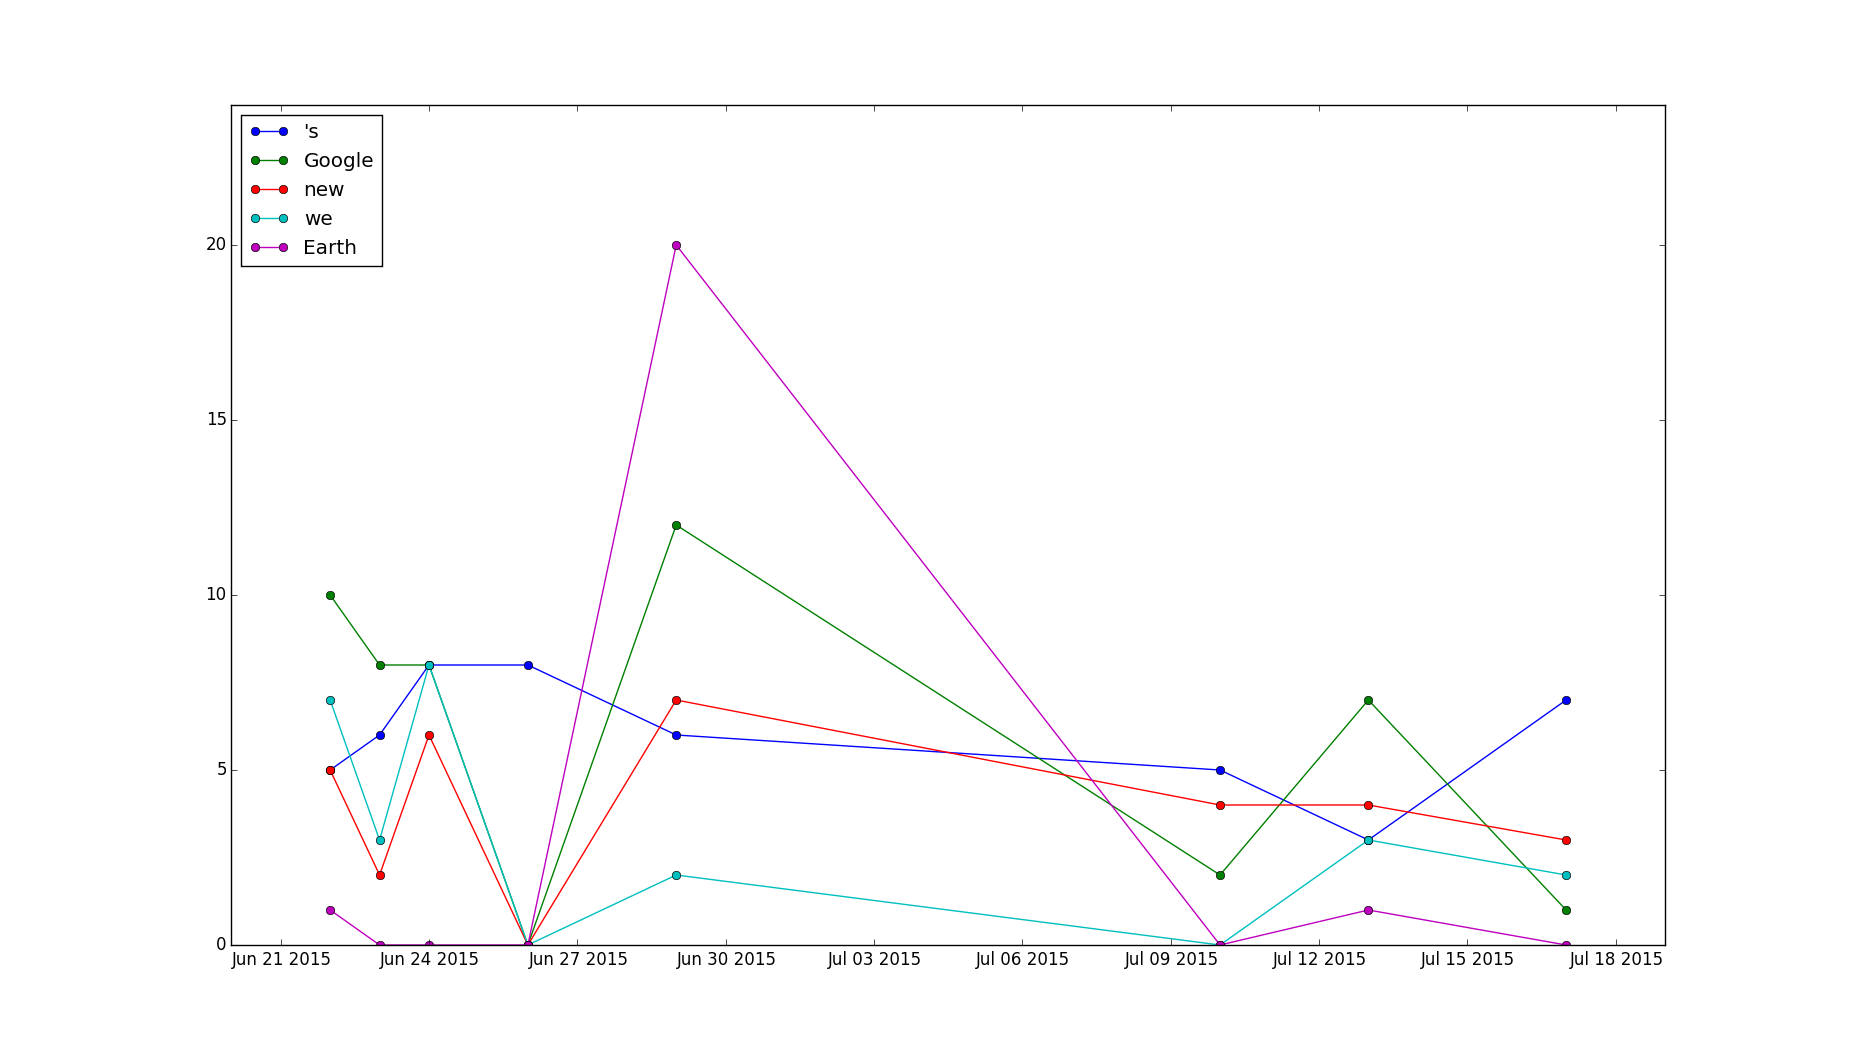
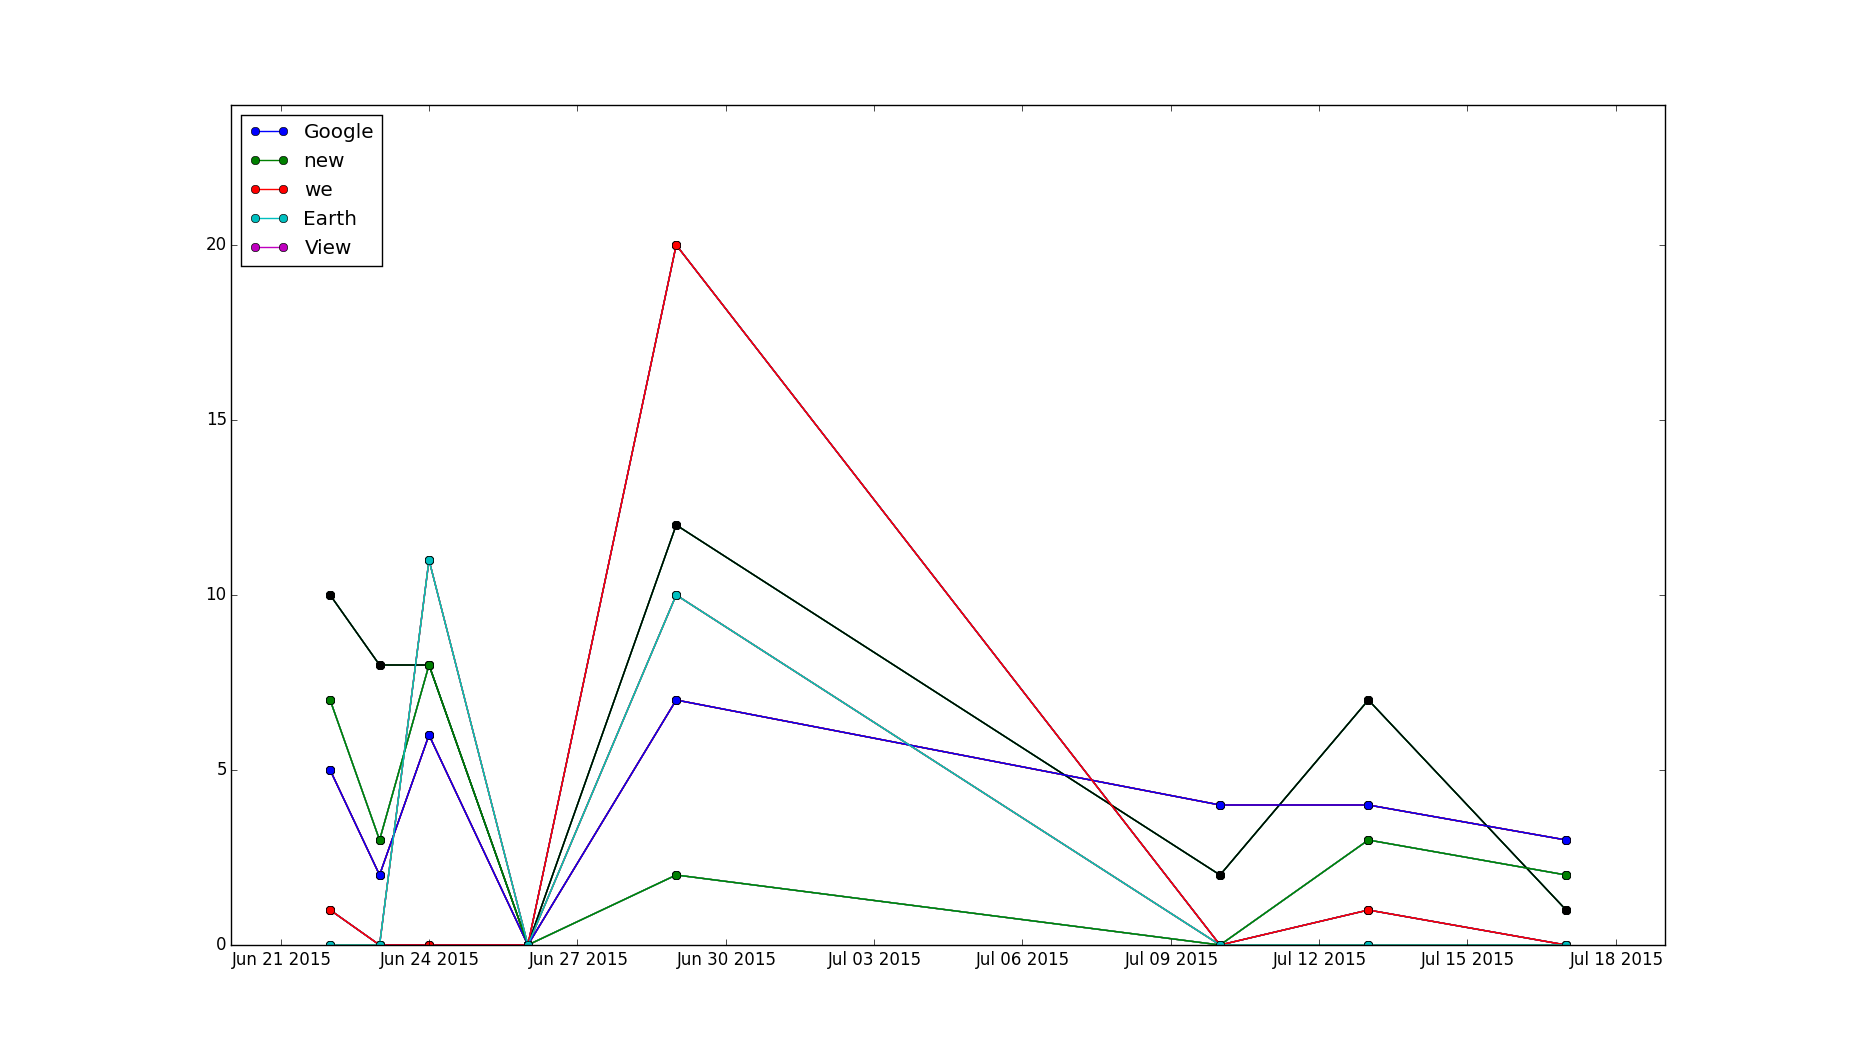
primitively fixed the path of image

diff --git a/files/templates/blog_search_result.html b/files/templates/blog_search_result.html
@@ -5,6 +5,9 @@
 <body>
     You searched for blog {{ blog_name }}
 
+    <h2>Word Frequency v.s. Time</h2>
+    <img src="../media/wf_vs_time.png" alt="Mountain View" style="width:304px;height:228px;">
+
     {% for post in posts %}
         <p>{{ post.content }}</p>
     {% endfor %}

diff --git a/files/templates/search_page.html b/files/templates/search_page.html
@@ -1,0 +1,11 @@
+<html>
+<head>
+    <title>Search</title>
+</head>
+<body>
+    <form action="/search_blog/" method="get">
+        <input type="text" name="link" height="100" size="70">
+        <input type="submit" value="Get!">
+    </form>
+</body>
+</html>

diff --git a/files/Blogger_Retriever/get.py b/files/Blogger_Retriever/get.py
@@ -4,7 +4,9 @@ import ast
 import nltk
 from bs4 import BeautifulSoup
 import re
+import ipdb
 
+MAX_POSTS = 50
 api_key = 'AIzaSyAsO-ID5sIxbtvc59ir5v2xbVxZTA02VDo'
 
 
@@ -17,8 +19,9 @@ def parse_post(post):
     post['pub_day'] = int(day)
 
     # use beautiful soup to parse the content
+    #ipdb.set_trace()
     soup = BeautifulSoup(post['content'])
-    post['content'] = soup.get_text()   # replace \u2018 with '
+    post['content'] = soup.get_text()
 
     # get author_id and the name
     post['author_id'] = post['author']['id']
@@ -41,8 +44,8 @@ def get_blog_by_link(blog_url):
 
 def get_blog_by_ID(blog_id):
 
-    get_all_posts_url = 'https://www.googleapis.com/blogger/v3/blogs/' + str(blog_id) + '/posts?key=' + api_key
-    blog_info = get(get_all_posts_url)
+    get_posts_url = 'https://www.googleapis.com/blogger/v3/blogs/' + str(blog_id) + '/posts?key=' + api_key
+    blog_info = get(get_posts_url)
     all_posts = []
 
     for post in blog_info['items']:

diff --git a/files/search_blogs/search_views.py b/files/search_blogs/search_views.py
@@ -1,7 +1,8 @@
-from django.shortcuts import render
+from django.shortcuts import render, render_to_response
 #from django.template.loader import get_template
 from django.http import HttpResponse
-from django.template import Template, Context
+from django.template import Template, Context, RequestContext
+
 import os
 # Create your views here.
 
@@ -18,6 +19,9 @@ def search_blog_by_link(request):
 
     visualize.words_vs_time(posts)
 
-    return HttpResponse(request, 'done')
+    ctx = RequestContext({'posts': posts, 'blog_name': blog['name'], 'MEDIA_URL': 'asd'})
+    #return render(request, 'blog_search_result.html', ctx)
+    return render_to_response('blog_search_result.html', {'posts': posts, 'blog_name': blog['name']},
+                              context_instance=RequestContext(request))
 
 

diff --git a/files/TextProcess/preprocess.py b/files/TextProcess/preprocess.py
@@ -2,6 +2,7 @@ from nltk.corpus import stopwords
 from collections import Counter
 import re
 from PorterStemmer import PorterStemmer
+import ipdb
 
 def extract(l, pat, str, sub):
     l.extend(re.findall(pat,str))
@@ -25,9 +26,10 @@ def tokenizeText(str):
     pat = '(?:\w+\.)+'
     str = extract(l, pat, str, '')
 
+    #ipdb.set_trace()
     #tokenization of 's, 're, 'm
     pat = '\'s'
-    str = extract(l, pat, str, '')
+    str = re.sub(pat, '', str)
 
     pat = '\'re'
     str = re.sub(pat, ' are', str)
@@ -71,6 +73,7 @@ def word_freq(s):
 
     return Counter(s.split())
 '''
+
 def rm_space(s):
     return ' '.join(s.split())
 

diff --git a/files/TextVisualize/visualize.py b/files/TextVisualize/visualize.py
@@ -37,14 +37,15 @@ def words_vs_time(posts, freq_words=[]):
 
     if not freq_words_provided:
         sorted_list = sorted(global_word_count.items(), key=operator.itemgetter(1), reverse=True)
-        sorted_list = sorted_list[:5]
-        freq_words = [x[0] for x in sorted_list]
+
+        freq_words = [x[0] for x in sorted_list[:5]]
 
     dates = sorted(post_dict.keys())
-
+    # ipdb.set_trace()
     # maintain max_occurence for setting y axis of the plot
     max_occurence = 0
 
+    print freq_words
     for word in freq_words:
 
         counts = []

diff --git a/files/mysite/urls.py b/files/mysite/urls.py
@@ -21,10 +21,14 @@ from views import hello, current_datetime, hours_ahead
 #print sys.path
 from search_blogs import search_views
 import views
+import settings
 
 urlpatterns = patterns('',
     #url(r'^admin/', include(admin.site.urls)),
     #url(r'^hello/$', hello),
     url(r'^$', views.home),
-    url(r'^search_blog', search_views.search_blog_by_link)
+    url(r'^search_blog', search_views.search_blog_by_link),
+
+    (r'^media/(?P<path>.*)$', 'django.views.static.serve',
+                 {'document_root': settings.MEDIA_ROOT}),
 )

diff --git a/files/mysite/settings.py b/files/mysite/settings.py
@@ -57,6 +57,8 @@ MIDDLEWARE_CLASSES = (
 
 ROOT_URLCONF = 'mysite.urls'
 
+MEDIA_ROOT = '/Users/rhzhang/Desktop/research proj/files/media'
+MEDIA_URL = '/media/'
 
 PROJECT_PATH = os.path.realpath(os.path.dirname(__file__)) + '/..'
 
